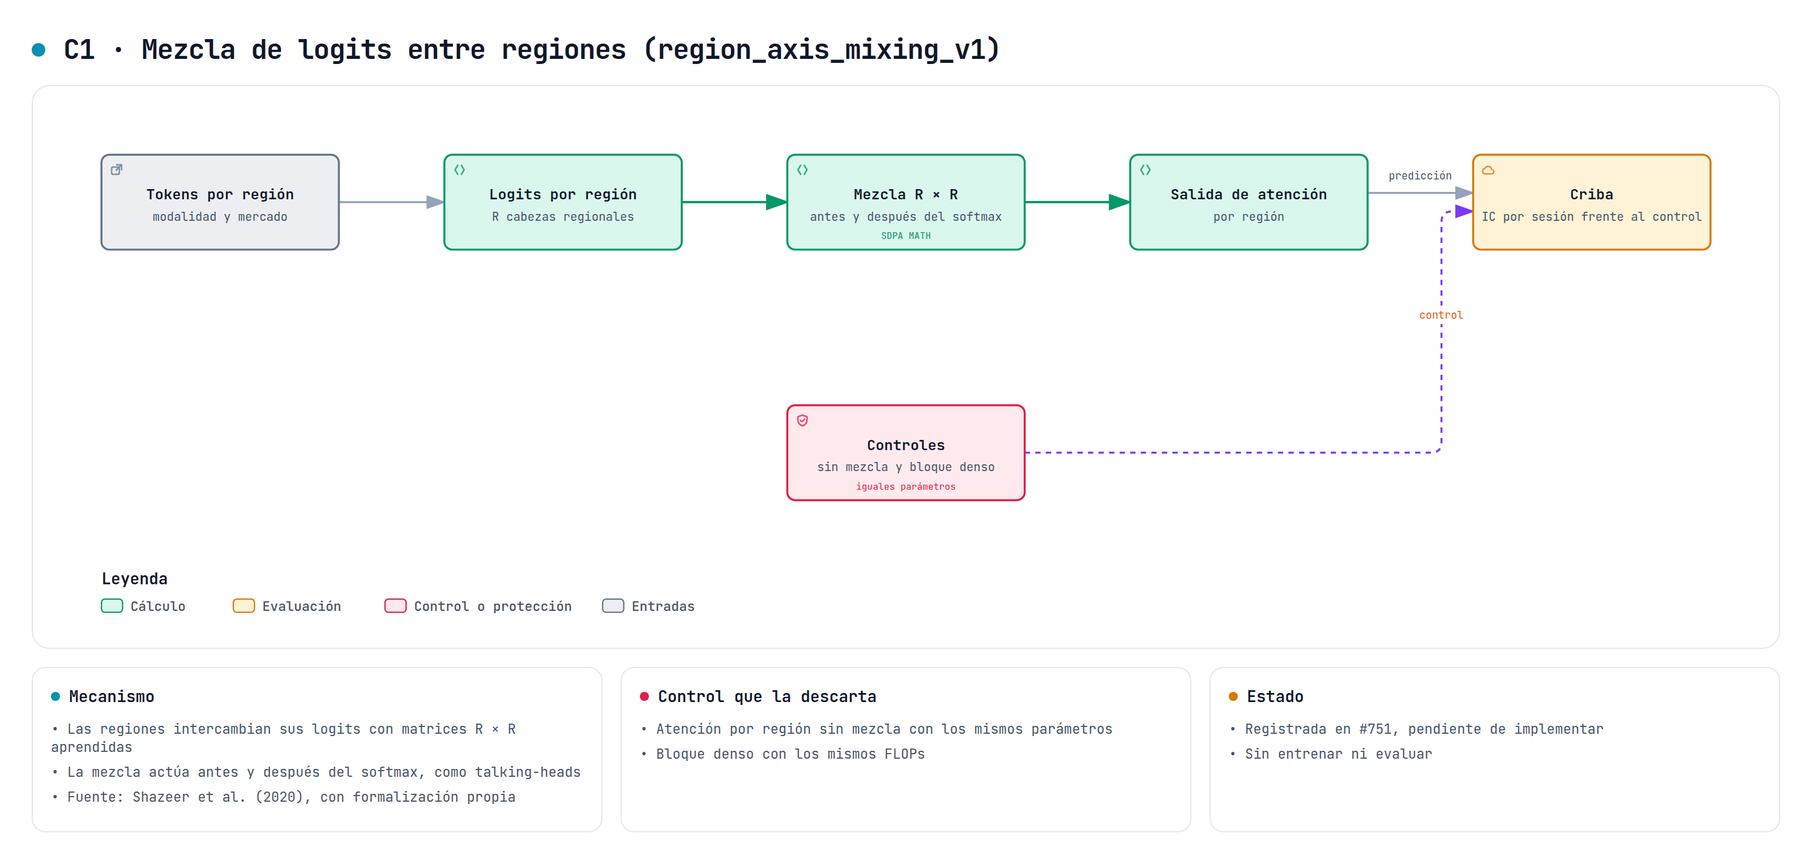
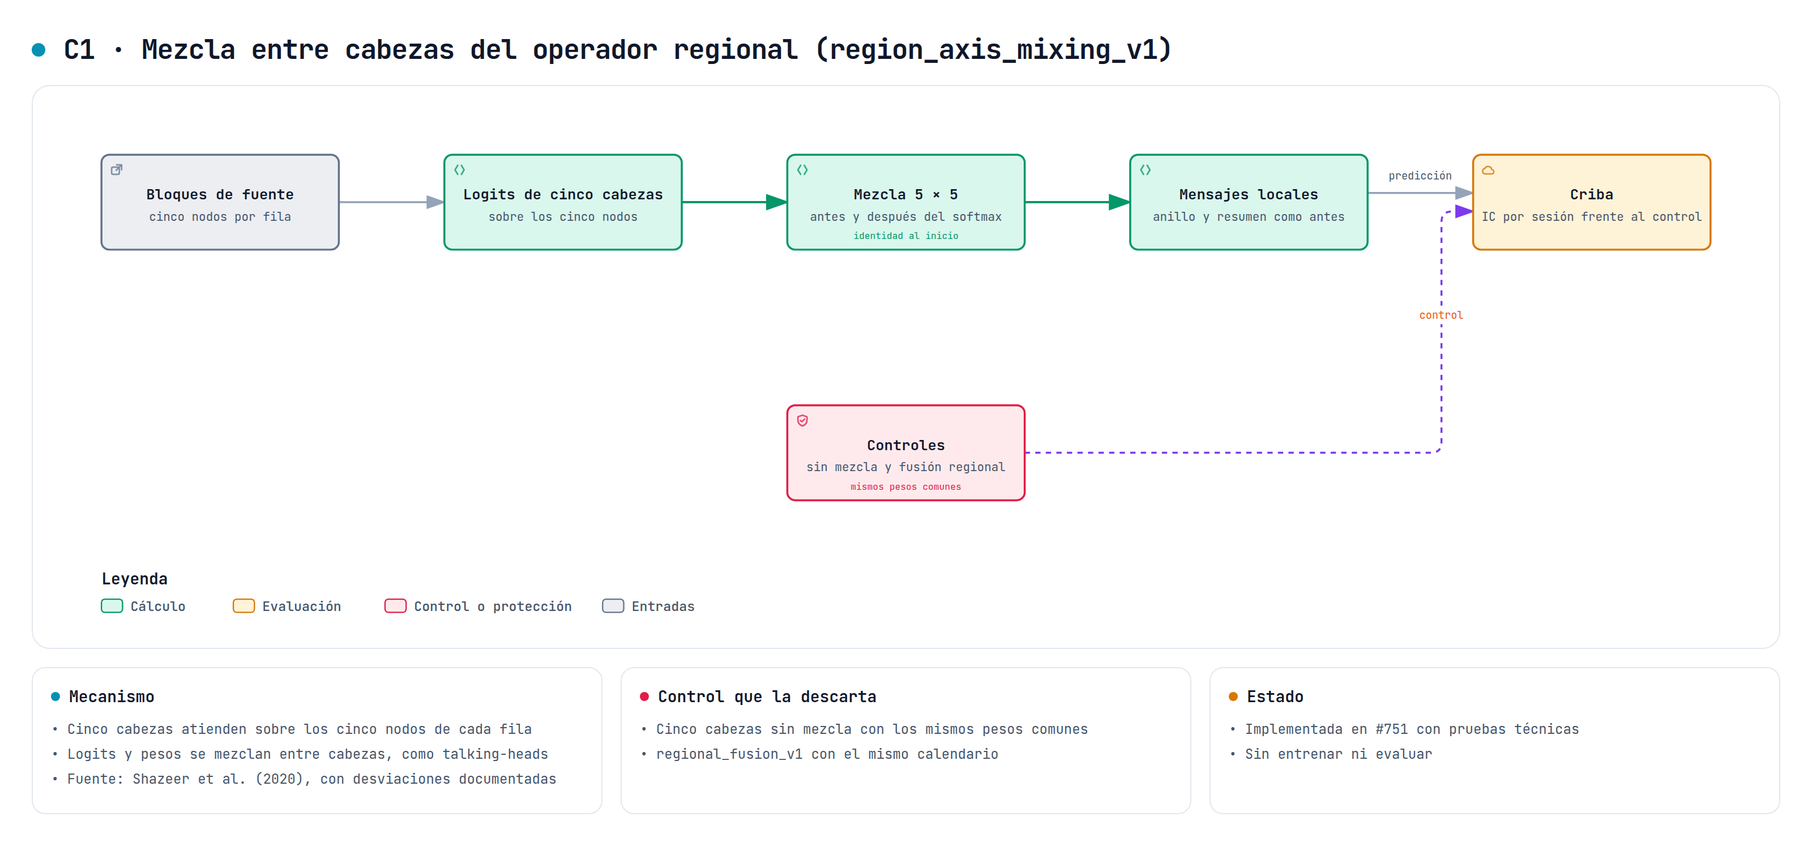
docs(experiments): document the C1 and C6 regional variants
Refs #751

diff --git a/docs/experiments/region-axis-mixing-v1.md b/docs/experiments/region-axis-mixing-v1.md
@@ -1,0 +1,85 @@
+# Mezcla entre cabezas del operador regional
+
+`region_axis_mixing_v1` es la variante C1 del estudio de variantes ([#742](https://github.com/GonxKZ/mars-titan/issues/742), [#751](https://github.com/GonxKZ/mars-titan/issues/751)). Sustituye a `regional_fusion_v1` dentro de `mac_online` con el mismo calendario de pasos locales y resumen, y añade a la atención local la mezcla de talking-heads. Está implementada en `src/mars_titan/models/titans/regional_variants.py` y comprobada con pruebas técnicas sobre fixtures. No se ha entrenado y no hay ninguna mejora medida.
+
+## Motivación y alcance
+
+La revisión del estudio formaliza la «atención 3D por regiones» con un tensor (lote, región, token, canal). Si cada región atiende solo a sus tokens con sus propios pesos, el resultado es una atención multicabeza ordinaria, y solo aparece una operación distinta cuando la atención mezcla el eje de región. La forma más barata de esa mezcla es talking-heads ([Shazeer et al., 2020](https://arxiv.org/abs/2003.02436)), que proyecta los logits a lo largo del eje de cabezas antes del softmax y los pesos después.
+
+En el operador regional cada fuente llega como un único vector de dimensión H, así que no hay un eje de tokens dentro de cada región. C1 aplica la mezcla a cinco cabezas que atienden sobre los cinco nodos. El número de cabezas coincide con el de regiones, pero ninguna cabeza queda atada a una fuente. Una versión con tokens propios de cada región tendría que actuar dentro de los codificadores y queda fuera de esta variante.
+
+## Recurrencia ejecutada
+
+Para una fila, Z es la entrada normalizada y enmascarada del paso local, igual que en la [fusión regional](regional-fusion-v1.md). Con d = ⌊H/5⌋ y cinco cabezas h = 1, …, 5:
+
+$$
+(Q_h, K_h, V_h) = Z\,W^{h}_{qkv},\qquad
+J_h = Q_h K_h^{\mathsf T}/\sqrt d .
+$$
+
+El control calcula $A_h=\operatorname{softmax}(J_h+\mathcal M)$. Con mezcla,
+
+$$
+L_g=\sum_{h=1}^{5}P_{gh}\,\bigl(J_h\odot \mathbb 1_{\mathcal M}\bigr),\qquad
+W_g=\operatorname{softmax}(L_g+\mathcal M),\qquad
+A_g=\sum_{h=1}^{5}Q_{gh}\,W_h .
+$$
+
+M es la misma máscara de aristas y presencia del operador original, con la arista propia de las consultas ausentes. $\mathbb 1_{\mathcal M}$ pone a cero los logits prohibidos antes de mezclar. Como todas las cabezas comparten la máscara, la mezcla de una posición prohibida solo afecta a esa posición, que vuelve a prohibirse. Por eso el cero no cambia la salida, pero evita que un logit no finito en una posición prohibida contamine el gradiente de P. Los pesos mezclados valen cero fuera de las aristas y no se renormalizan, igual que en la sección 4 del artículo. Tras ajustar P y Q, el mensaje puede dejar de ser una combinación convexa.
+
+El mensaje concatena $A_g V_g$ de las cinco cabezas, lo proyecta de 5d a H y actualiza los nodos presentes con la ganancia η del operador. El resumen, su difusión y la lectura final son los de `regional_fusion_v1`.
+
+## Desviaciones respecto al artículo
+
+| Artículo | C1 | Motivo |
+| --- | --- | --- |
+| $h_k$, h y $h_v$ pueden diferir | Las tres valen 5 | Igualar el control sin mezcla, que tiene cinco cabezas |
+| Atención sobre secuencias de tokens | Atención sobre los cinco nodos de una fila | El operador recibe un vector por fuente |
+| La sección 4 no fija la inicialización de $P_l$ y $P_w$ | P y Q empiezan en la identidad | La variante y su control calculan lo mismo al construirse |
+| El pseudocódigo no trata máscaras | Logits prohibidos a cero antes de mezclar y prohibidos de nuevo después | Conservar aristas y presencia del operador |
+| Cabezas de dimensión $d_k$ libre | d = ⌊H/5⌋, con 60 canales internos para H = 64 | Reparto habitual de la atención multicabeza |
+
+C1 calcula logits y pesos con multiplicaciones explícitas, porque la mezcla necesita los logits antes del softmax. No usa `scaled_dot_product_attention` ni ninguno de sus backends.
+
+## Controles
+
+El control propio es `mixing="none"`. Tiene las mismas cabezas, proyecciones y resumen, sin P ni Q. Ambas construcciones derivan sus pesos de la misma semilla de familia, así que comparten todos los parámetros comunes y empiezan con salidas idénticas. La diferencia entre ellas al terminar un ajuste solo puede venir de la mezcla y de lo que el optimizador haga con ella.
+
+`regional_fusion_v1` con el mismo calendario es la referencia del operador anterior, con una cabeza de dimensión H. Para H = 64 almacena 41.216 parámetros, el control de C1 40.192 y C1 40.242. El bloque denso con iguales FLOPs que proponía la revisión del estudio no está implementado. El coste medido figura más abajo, y la comparación con el operador anterior no está emparejada en parámetros.
+
+La variante se descarta si no mejora a su control sin mezcla con el contraste y la corrección que fije el protocolo de la criba ([#746](https://github.com/GonxKZ/mars-titan/issues/746)). En ese caso el intercambio entre cabezas no aporta nada que no consigan cinco cabezas independientes.
+
+## Correspondencia entre ecuaciones, módulo y pruebas
+
+Las pruebas están en `tests/models/titans/test_regional_variants.py` y `tests/models/titans/test_financial_regional_variants.py`.
+
+| Elemento | Código | Prueba |
+| --- | --- | --- |
+| Calendario común igual al operador original | `_RegionalVariant.forward` | `test_the_common_schedule_reproduces_the_original_operator_bit_for_bit`, con tres topologías, resumen activado o no y tres calendarios |
+| $L_g$, $W_g$ y $A_g$ | `RegionAxisMixing._messages` | `test_mixing_starts_equal_to_its_control_and_only_the_mixing_separates_them` (FP32 y FP64) |
+| Pesos mezclados dentro de las aristas | `_messages` | `test_mixed_weights_keep_each_head_inside_its_edges` |
+| Nodos ausentes sin mensajes y con su bloque | `forward` | `test_missing_regions_send_nothing_and_keep_their_blocks` |
+| Estado de trabajo por fila y por llamada | `forward` | `test_rows_are_independent_and_the_working_state_resets` |
+| Gradientes de la recurrencia ejecutada | todo el módulo | `test_executed_recurrence_gradients_match_finite_differences` |
+| Semilla de familia sin tocar el RNG global | `_RegionalVariant.__init__` | `test_construction_and_calls_leave_the_global_generator_untouched` |
+| Checkpoints, declaraciones y entradas | `load_state_dict`, `parse_regional_variant`, `_checked_presence` | `test_checkpoints_restore_the_same_variant_and_reject_another_contract`, `test_incomplete_or_invalid_declarations_are_rejected`, `test_inputs_outside_the_contract_are_rejected` y `test_autocast_does_not_relax_the_declared_precision` |
+| Integración en el predictor | `FinancialConfig.regional_variant` | `test_the_variant_changes_only_the_fusion_and_advances_mac_once` y `test_mixing_predictor_starts_equal_to_its_control` |
+| Igualdad CPU y CUDA | todo el módulo | `test_cuda_matches_cpu`, pendiente de ejecutar con la GPU libre |
+
+## Integración y límites
+
+`FinancialConfig.regional_variant` acepta la configuración solo con `mac_online` y rechaza combinarla con `regional_fusion`, `regional_execution` o PT6. La receta la declara como un cambio del predictor (`PREDICTOR_CHANGES`). Con `None` el predictor conserva su identidad y sus parámetros anteriores. Con la variante, los parámetros del tronco no cambian y solo se añaden los de `regional_variant.*`. MAC sigue avanzando una vez por observación.
+
+El consumidor congelado rechaza la variante, porque su módulo no está entre los componentes que conoce. Registrarla allí exige ampliar su huella de código y se hará cuando la criba la necesite. `regional_fusion.py` no se modifica, porque su fuente forma parte de la identidad de los consumidores congelados y de los estudios ya preparados.
+
+## Coste
+
+La medida de [`benchmarks/regional_variants_cost.py`](../../benchmarks/regional_variants_cost.py) llama solo al operador regional con bloques aleatorios [B,5,64] en FP32 y las cinco fuentes presentes, con el anillo, dos ciclos, dos pasos locales y resumen. `forward` es la inferencia sin gradiente. `backward` añade la propagación hasta los parámetros del operador, sin optimizador, y un gancho de `torch.optim` rechaza cualquier paso. Hubo tres calentamientos y veinte repeticiones por condición en dos pasadas de orden inverso. Se ejecutó en CPU con 8 hilos, PyTorch 2.14.0 y Python 3.12.14, con otras cargas del equipo activas y una media de carga en torno a 11. Las cifras son medianas en milisegundos por llamada. El [JSON](../../reports/engineering/regional-variants-20261027/cpu-cost.json) conserva el p95 y las muestras.
+
+| Operador | Parámetros | 64 filas, forward | 64 filas, backward | 256 filas, forward | 256 filas, backward |
+| --- | ---: | ---: | ---: | ---: | ---: |
+| `regional_fusion_v1` | 41.216 | 7,32 | 15,75 | 15,14 | 30,61 |
+| C1 sin mezcla | 40.192 | 8,86 | 17,57 | 16,44 | 32,77 |
+| C1 con mezcla | 40.242 | 10,95 | 22,24 | 19,10 | 47,52 |
+
+Frente a su control, la mezcla encarece el operador entre un 16 % y un 45 % según la forma y el recorrido, aunque solo añade unas 1.250 multiplicaciones por fila y paso local a las 79.800 del control. A este tamaño pesan sobre todo las operaciones adicionales (dos `einsum`, la anulación de logits y su máscara), no la aritmética. La revisión del estudio estimaba entre 1 y 1,05 U para el predictor completo. El operador es solo una parte de ese recorrido y esta medida no lo sustituye. Falta la medida en `cuda:0`, que se hará con la GPU libre. No se ha optimizado nada, porque todavía no hay un perfil del ajuste completo que muestre aquí un cuello de botella.

diff --git a/docs/experiments/shared-workspace-v1.md b/docs/experiments/shared-workspace-v1.md
@@ -1,0 +1,87 @@
+# Espacio de trabajo compartido en el operador regional
+
+`shared_workspace_v1` es la variante C6 del estudio de variantes ([#742](https://github.com/GonxKZ/mars-titan/issues/742), [#751](https://github.com/GonxKZ/mars-titan/issues/751)). Sustituye el resumen de `regional_fusion_v1` por unas pocas ranuras compartidas. Las regiones compiten por escribir en ellas y después cada región lee lo escrito. Está implementada en `src/mars_titan/models/titans/regional_variants.py` y comprobada con pruebas técnicas sobre fixtures. No se ha entrenado y no hay ninguna mejora medida.
+
+## Motivación y expectativa previa
+
+La idea de una conciencia que une todas las áreas tiene una traducción publicada en aprendizaje profundo, el espacio de trabajo compartido de [Goyal et al. (2022)](https://arxiv.org/abs/2103.01197). En lugar de que todos los módulos se comuniquen por pares, compiten por escribir en un espacio de capacidad limitada cuyo contenido se difunde después a todos. Los autores argumentan que ese límite favorece la especialización y la coordinación entre módulos.
+
+En MARS-TITAN ese papel se parece mucho al de la memoria persistente de Titans-MAC y al resumen del operador regional. La expectativa previa es la redundancia. La variante se incluye porque es la forma más directa de contrastar esa idea, y su resultado esperado más probable es que no supere a sus controles.
+
+## Recurrencia ejecutada
+
+Los pasos locales son los de la [fusión regional](regional-fusion-v1.md), con atención de una cabeza sobre los nodos, la misma máscara y la misma ganancia η. Lo que cambia es el resumen. Cada fila empieza con las ranuras aprendidas $S^0\in\mathbb R^{s\times H}$, comunes a todas las filas. Al acabar los pasos locales del ciclo c, con R los estados de los nodos:
+
+$$
+E=\frac{\operatorname{LN}_s(S)\,W_{wq}\,\bigl(R\,W_{wk}\bigr)^{\mathsf T}}{\sqrt H}\in\mathbb R^{s\times 5}.
+$$
+
+Con competición, $F_j$ son las k regiones presentes de mayor $E_{j\cdot}$ para la ranura j. La elección usa las puntuaciones sin gradiente, y el softmax sobre las elegidas sí lo recibe. Con escritura densa, $F_j$ son todas las regiones presentes. Después,
+
+$$
+\omega_{j\cdot}=\operatorname{softmax}_{F_j}(E_{j\cdot}),\qquad
+S\leftarrow S+\gamma\,\operatorname{MLP}\bigl(\operatorname{LN}_s(S)+\omega\,R\,W_{wv}\bigr).
+$$
+
+Una fila sin regiones presentes conserva sus ranuras. Cada nodo lee las ranuras actualizadas:
+
+$$
+C=\operatorname{softmax}\!\left(\frac{R\,W_{rq}\,(S\,W_{rk})^{\mathsf T}}{\sqrt H}\right) S\,W_{ro}\in\mathbb R^{5\times H}.
+$$
+
+C ocupa el lugar de la difusión U del operador original, pero cada nodo recibe su propio contexto en vez de uno común. Entra en la normalización de los pasos locales del ciclo siguiente y en la lectura final $Y=X+P\odot\bigl((R-R^0+C)W_r^{\mathsf T}\bigr)$. Las ranuras y el contexto se reinician en cada predicción y solo persisten entre los ciclos de una misma llamada.
+
+## Desviaciones respecto al artículo
+
+| Artículo | C6 | Motivo |
+| --- | --- | --- |
+| El espacio persiste entre pasos temporales o capas, y el apéndice D compara una versión sin persistencia | Se reinicia en cada predicción | El estado entre sesiones pertenece a MAC y al banco episódico, con sus propias reglas de recuperación |
+| Actualización con la compuerta de RMC y atención sobre [M; A] | MLP residual con ganancia γ, sin que las ranuras se atiendan a sí mismas | Repetir la actualización del resumen original y aislar el efecto de la competición |
+| Top-k sobre los valores previos al softmax, y en RIMs+SW selección global por relevancia de la entrada | Top-k por ranura entre las regiones presentes | Con cinco regiones, cada ranura puede recoger una combinación distinta |
+| La difusión suma $\sum_j s_{kj}\hat v_j$ al estado del especialista | El contexto entra en la normalización y en la lectura final | Mantener el estado local y la lectura del operador original |
+| Entre 1 y 10 ranuras según el experimento | 2 por defecto, de 1 a 4 | Con cinco regiones, más de cuatro ranuras dejaría de ser un cuello de botella |
+
+La selección top-k no es diferenciable. Las puntuaciones que la deciden sí reciben gradiente a través del softmax de las regiones elegidas, como en la selección híbrida que describen los autores.
+
+## Controles
+
+El control propio es `write="dense"`. Escribe con atención cruzada sobre todas las regiones presentes y tiene exactamente los mismos parámetros. Corresponde a la competición blanda (TR+SSW) de los experimentos del artículo. Ambas construcciones derivan sus pesos de la misma semilla de familia y empiezan con los mismos parámetros. Cuando hay k regiones presentes o menos, las dos escriben igual.
+
+El segundo control es el predictor `mac_online` con `regional_fusion_v1` y el mismo calendario, que ya tiene la memoria persistente de MAC y el resumen común. C6 almacena 15H² + (s + 4)H parámetros, 61.824 para H = 64 y dos ranuras, frente a los 41.216 de `regional_fusion_v1`. Esa comparación no está emparejada en parámetros.
+
+La variante se descarta si no mejora a la escritura densa, porque entonces la competición no aporta nada. Si ninguna de las dos mejora al operador original, las ranuras no añaden nada al resumen común ni a la memoria persistente de MAC. El contraste y la corrección los fija el protocolo de la criba ([#746](https://github.com/GonxKZ/mars-titan/issues/746)).
+
+## Correspondencia entre ecuaciones, módulo y pruebas
+
+Las pruebas están en `tests/models/titans/test_regional_variants.py` y `tests/models/titans/test_financial_regional_variants.py`.
+
+| Elemento | Código | Prueba |
+| --- | --- | --- |
+| Calendario común igual al operador original | `_RegionalVariant.forward` | `test_the_common_schedule_reproduces_the_original_operator_bit_for_bit` |
+| E, $F_j$ y ω | `SharedWorkspace._write_weights` | `test_competition_writes_only_with_the_best_regions_of_each_slot` |
+| Mismos parámetros en la variante y su control | `_RegionalVariant.__init__` | `test_written_and_dense_workspaces_start_from_the_same_parameters` |
+| Actualización de S y lectura C | `SharedWorkspace._summary` | `test_executed_recurrence_gradients_match_finite_differences` |
+| Nodos ausentes y filas vacías | `forward`, `_write_weights` | `test_missing_regions_send_nothing_and_keep_their_blocks` |
+| Estado de trabajo por fila y por llamada | `forward` | `test_rows_are_independent_and_the_working_state_resets` |
+| Semilla de familia sin tocar el RNG global | `_RegionalVariant.__init__` | `test_construction_and_calls_leave_the_global_generator_untouched` |
+| Checkpoints, declaraciones y entradas | `load_state_dict`, `parse_regional_variant`, `_checked_presence` | `test_checkpoints_restore_the_same_variant_and_reject_another_contract`, `test_incomplete_or_invalid_declarations_are_rejected` y `test_inputs_outside_the_contract_are_rejected` |
+| Integración en el predictor | `FinancialConfig.regional_variant` | `test_the_variant_changes_only_the_fusion_and_advances_mac_once` y `test_a_saved_variant_restores_only_into_the_same_declaration` |
+| Igualdad CPU y CUDA | todo el módulo | `test_cuda_matches_cpu`, pendiente de ejecutar con la GPU libre |
+
+## Integración y límites
+
+La integración es la misma que la de [C1](region-axis-mixing-v1.md). La variante exige `summary=true` en el calendario, porque sustituye al resumen, y solo se declara sobre `mac_online`. El consumidor congelado la rechaza hasta que se registre su módulo.
+
+Las ranuras no son memoria a largo plazo, ni pesos rápidos de Titans, ni episodios del banco. Se aprenden como parámetros compartidos del ajuste externo y su contenido de trabajo desaparece al terminar cada predicción. La variante no prueba ninguna teoría de la conciencia. Solo contrasta si un cuello de botella con competición mejora la comunicación entre fuentes.
+
+## Coste
+
+La medida de [`benchmarks/regional_variants_cost.py`](../../benchmarks/regional_variants_cost.py) llama solo al operador regional con bloques aleatorios [B,5,64] en FP32 y las cinco fuentes presentes, con el anillo, dos ciclos, dos pasos locales y resumen. `forward` es la inferencia sin gradiente. `backward` añade la propagación hasta los parámetros del operador, sin optimizador, y un gancho de `torch.optim` rechaza cualquier paso. Hubo tres calentamientos y veinte repeticiones por condición en dos pasadas de orden inverso. Se ejecutó en CPU con 8 hilos, PyTorch 2.14.0 y Python 3.12.14, con otras cargas del equipo activas y una media de carga en torno a 11. Las cifras son medianas en milisegundos por llamada. El [JSON](../../reports/engineering/regional-variants-20261027/cpu-cost.json) conserva el p95 y las muestras.
+
+| Operador | Parámetros | 64 filas, forward | 64 filas, backward | 256 filas, forward | 256 filas, backward |
+| --- | ---: | ---: | ---: | ---: | ---: |
+| `regional_fusion_v1` | 41.216 | 7,32 | 15,75 | 15,14 | 30,61 |
+| C6 con escritura densa | 61.824 | 8,63 | 16,96 | 16,37 | 40,67 |
+| C6 con competición | 61.824 | 8,76 | 18,15 | 16,66 | 40,18 |
+
+La competición y su control cuestan prácticamente lo mismo, como se espera de una selección top-k sobre cinco regiones. Frente al operador original, C6 añade un 50 % de parámetros y, con 256 filas, cerca de un tercio más de tiempo en la propagación hacia atrás. La revisión del estudio estimaba entre 1 y 1,2 U para el predictor completo, y esta medida del operador no lo sustituye. Falta la medida en `cuda:0`, que se hará con la GPU libre.

diff --git a/docs/diagrams/README.md b/docs/diagrams/README.md
@@ -28,7 +28,7 @@ Las variantes proceden del estudio registrado en [#742](https://github.com/GonxK
 | --- | --- | --- |
 | A · Salida y abstención | [A1 contracción de escala](variants/a1-scale-shrink.png), [A2 abstención neutral](variants/a2-neutral-abstention.png), [A3 conformal ponderado](variants/a3-regime-weighted-conformal.png), [A4 cabezas oponentes](variants/a4-opponent-heads.png) | [#744](https://github.com/GonxKZ/mars-titan/issues/744), [#748](https://github.com/GonxKZ/mars-titan/issues/748) y [#749](https://github.com/GonxKZ/mars-titan/issues/749) |
 | B · Memoria por áreas | [B1 memoria redundante](variants/b1-redundant-area-memory.png), [B2 consulta entre áreas](variants/b2-area-query-bridge.png), [B3 claves ligadas a roles](variants/b3-role-bound-keys.png), [B4 lesiones](variants/b4-lesion-protocol.png) | [#750](https://github.com/GonxKZ/mars-titan/issues/750) |
-| C · Regiones y jerarquía | [C1 mezcla de logits](variants/c1-region-axis-mixing.png), [C2 atención axial](variants/c2-axial-time-region.png), [C3 operador compartido](variants/c3-fractal-shared-operator.png), [C4 regiones en fecha](variants/c4-pit-region-gate.png), [C5 atención entre activos](variants/c5-cross-asset-attention.png), [C6 espacio de trabajo](variants/c6-shared-workspace.png) | [#751](https://github.com/GonxKZ/mars-titan/issues/751) |
+| C · Regiones y jerarquía | [C1 mezcla entre cabezas](variants/c1-region-axis-mixing.png), [C2 atención axial](variants/c2-axial-time-region.png), [C3 operador compartido](variants/c3-fractal-shared-operator.png), [C4 regiones en fecha](variants/c4-pit-region-gate.png), [C5 atención entre activos](variants/c5-cross-asset-attention.png), [C6 espacio de trabajo](variants/c6-shared-workspace.png) | [#751](https://github.com/GonxKZ/mars-titan/issues/751) |
 | D · Profundidad y parada | [D1 bucles anidados](variants/d1-nested-equal-depth.png), [D2 parada adaptativa](variants/d2-adaptive-bridge-stop.png) | [#751](https://github.com/GonxKZ/mars-titan/issues/751), [#709](https://github.com/GonxKZ/mars-titan/issues/709) y [#734](https://github.com/GonxKZ/mars-titan/issues/734) |
 | E · Escalas y consolidación | [E1 mezcla de escalas](variants/e1-multiscale-mature-mixture.png), [E2 consolidación espaciada](variants/e2-spaced-utility-consolidation.png), [E3 escritura por saliencia](variants/e3-salience-write-budget.png), [E4 puerta de régimen](variants/e4-regime-evidence-gate.png) | [#750](https://github.com/GonxKZ/mars-titan/issues/750) |
 | F · Objetivo y ajuste | [F1 escala de Laplace](variants/f1-laplace-scale-head.png), [F2 semillas y EMA](variants/f2-seed-ema-ensemble.png), [F3 optimizador y continuación](variants/f3-optimizer-continuation.png), [F4 rangos e IC](variants/f4-session-rank-ic.png), [F5 horizontes auxiliares](variants/f5-auxiliary-horizons.png) | [#749](https://github.com/GonxKZ/mars-titan/issues/749) |

diff --git a/README.md b/README.md
@@ -50,6 +50,8 @@ La [conexión del puente al catálogo](reports/engineering/shared-bridge-catalog
 
 La [fusión regional opcional](docs/experiments/regional-fusion-v1.md) comunica las cinco representaciones mediante un grafo y un resumen con distinta frecuencia de actualización. Conserva una transición MAC por observación. Sus ocho controles comparten la canalización existente y los estados regionales se reinician en cada predicción. Las pruebas y los [costes CUDA](reports/engineering/regional-fusion-20261021/README.md) usan fixtures. No se ha entrenado esta variante ni se ha medido una mejora financiera.
 
+Dos variantes del estudio de octubre sustituyen ese operador con el mismo calendario. La [mezcla entre cabezas](docs/experiments/region-axis-mixing-v1.md) (C1) aplica talking-heads a la atención local, y el [espacio de trabajo compartido](docs/experiments/shared-workspace-v1.md) (C6) cambia el resumen por ranuras con escritura por competición. Cada una tiene un control con los mismos pesos comunes. Están implementadas y comprobadas con fixtures, con su coste en CPU medido, pero no se han entrenado.
+
 La [validación de checkpoints regionales](reports/engineering/regional-geometry-20261022/README.md) rechaza topologías y estructuras incompatibles antes de copiar pesos. Se comprobaron paridad con la referencia previa, 348 casos técnicos, nueve mutaciones dirigidas y coste CUDA con hasta 256 filas.
 
 Los [programas regionales anteriores a MAC](docs/experiments/regional-program-v1.md) reutilizan el operador con dos calendarios y una consulta previa al contexto confirmado. La colección y la emisión conservan sus trazas, y las cuotas de una cohorte no se recuperan tras un intento fallido. Su archivo acotado se ha comprobado con 600 eventos técnicos y reaperturas. La [matriz técnica ampliada](reports/engineering/regional-program-matrix-20261022/README.md) completó 208 condiciones en cuatro modos de memoria, con FP32, FP64 y hasta 256 flujos de fixture, además de 13 tests del protocolo y cuatro mutaciones dirigidas. Las opciones siguen desactivadas por defecto y no tienen una mejora predictiva medida.
